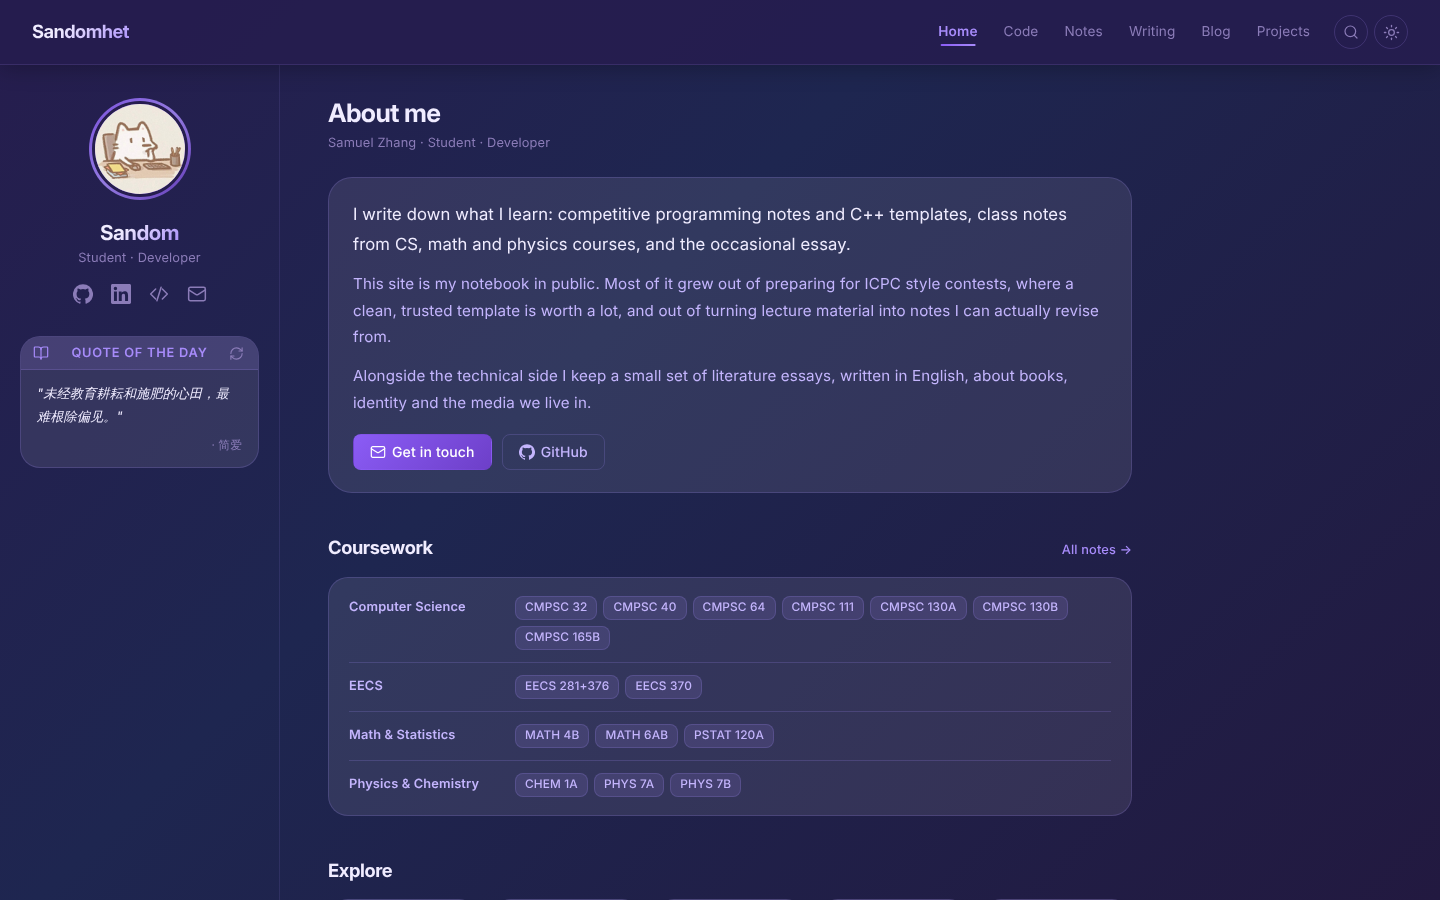
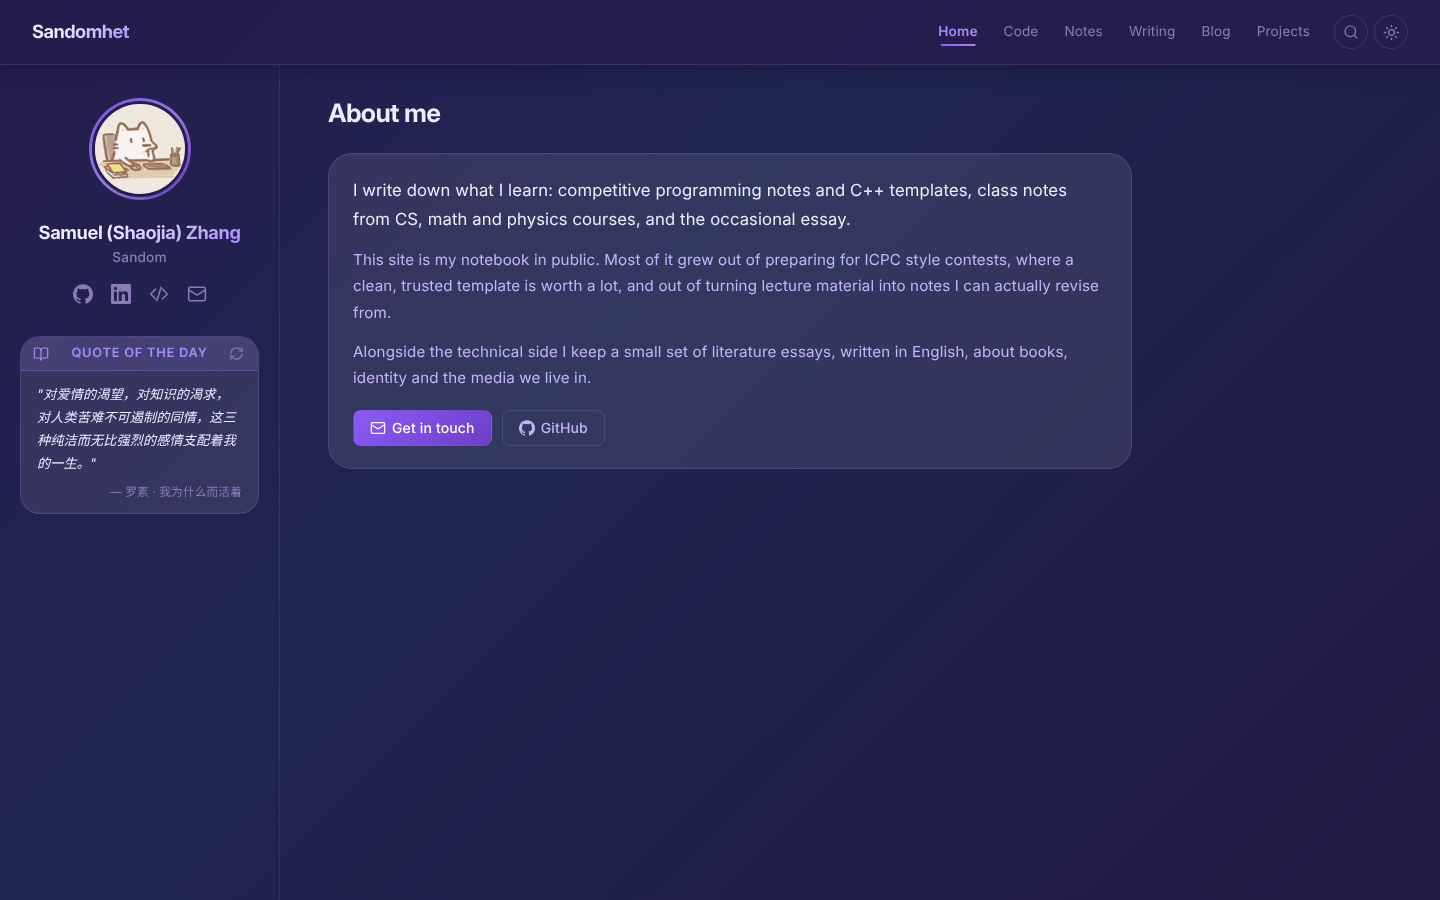
Show only About me on the home page and move project docs to the blog
- home page: About me card only; coursework, section links and recent
  entries removed
- profile: name is now "Samuel (Shaojia) Zhang" with "Sandom" below it;
  the "Student · Developer" tagline is gone
- ai, interview and nine-point-circle (the documents that lived under
  Projects on the old site) move from Code to the Blog; blog posts with
  more than two headings get a table of contents
- redirects for /projects/* and /code/* point to the new /blog/* URLs

diff --git a/src/data/site.ts b/src/data/site.ts
@@ -1,10 +1,9 @@
 // Everything personal lives here so the About page and footer stay easy to edit.
 
 export const profile = {
-  name: "Samuel Zhang",
+  name: "Samuel (Shaojia) Zhang",
   handle: "Sandomhet",
   short: "Sandom",
-  tagline: "Student · Developer",
   avatar: "/avatar.jpg",
   email: "sandomhet@gmail.com",
   // TODO(Samuel): replace with your own words. Kept to facts the site itself shows.
@@ -77,7 +76,6 @@ export const categoryNames: Record<string, string> = {
   CMPSC: "Computer Science",
   EECS: "EECS",
   MATH: "Math & Statistics",
-  AI: "AI",
 };
 
 export const categoryName = (c: string) => categoryNames[c] ?? c.replace(/-/g, " ");

diff --git a/README.md b/README.md
@@ -17,7 +17,7 @@ Built with [Astro](https://astro.build) as a fully static site. Markdown is rend
 | `/writing` | Literature articles and essays | `src/content/writing/` |
 | `/blog` | Personal blog posts | `src/content/blog/` |
 | `/projects` | Project showcase with illustrated cards | `src/content/projects/` |
-| `/` | Home: profile, social links and quote of the day on the left, About me on the right | `src/data/site.ts` |
+| `/` | About me, with profile, social links and quote of the day in the sidebar | `src/data/site.ts` |
 
 The folder a file sits in becomes its category, and the file name becomes its URL (`src/content/code/Graph/mst.md` → `/code/mst`). File names must be unique within a section.
 
@@ -66,4 +66,4 @@ Search only works on a built site because the index is generated after `astro bu
 
 ## Deployment
 
-The site is deployed on Vercel. `vercel.json` sets the framework to Astro, the output folder to `dist`, clean URLs, and redirects from the old routes (`/blogs/*` → `/code/*`, `/articles/*` → `/writing/*`, and the documents that used to live under `/projects`).
+The site is deployed on Vercel. `vercel.json` sets the framework to Astro, the output folder to `dist`, clean URLs, and redirects from the old routes (`/blogs/*` → `/code/*`, `/articles/*` → `/writing/*`, and the documents that used to live under `/projects`, which are now in the blog).
